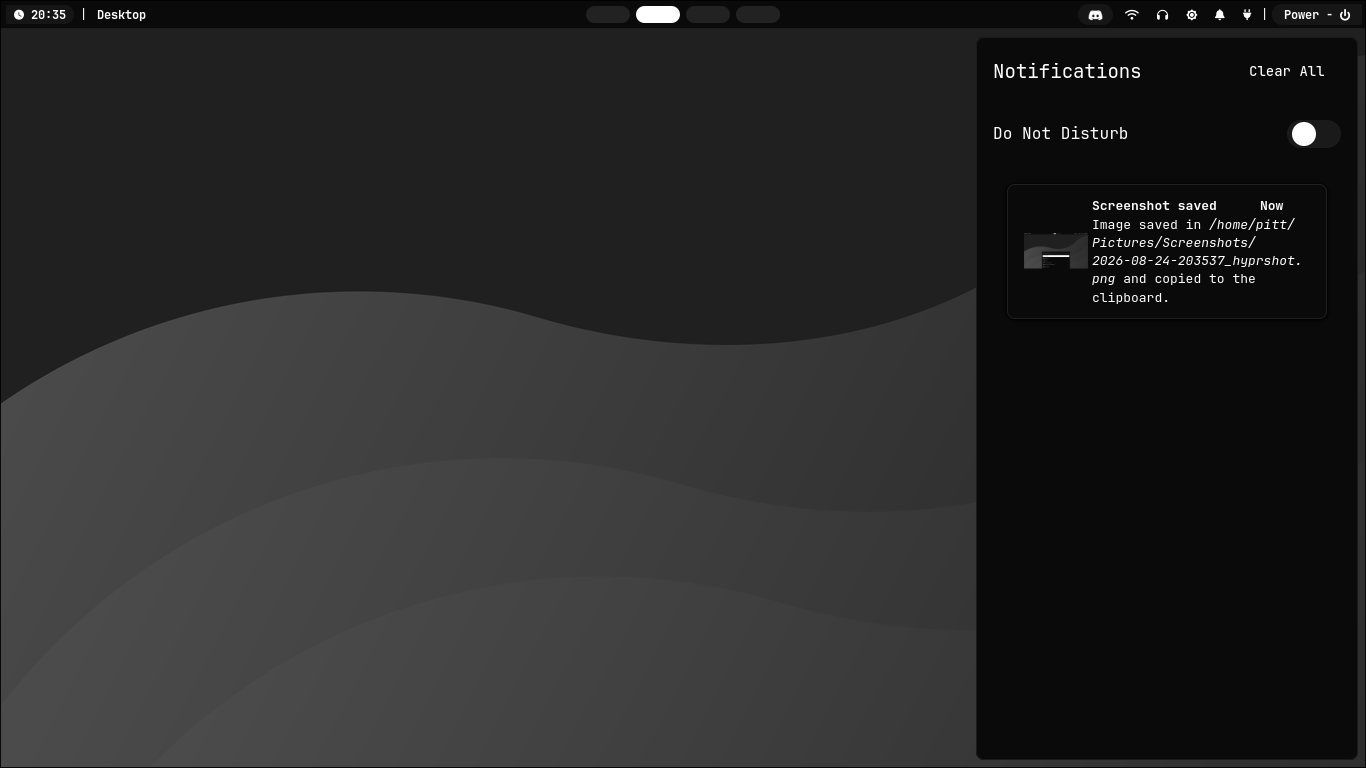
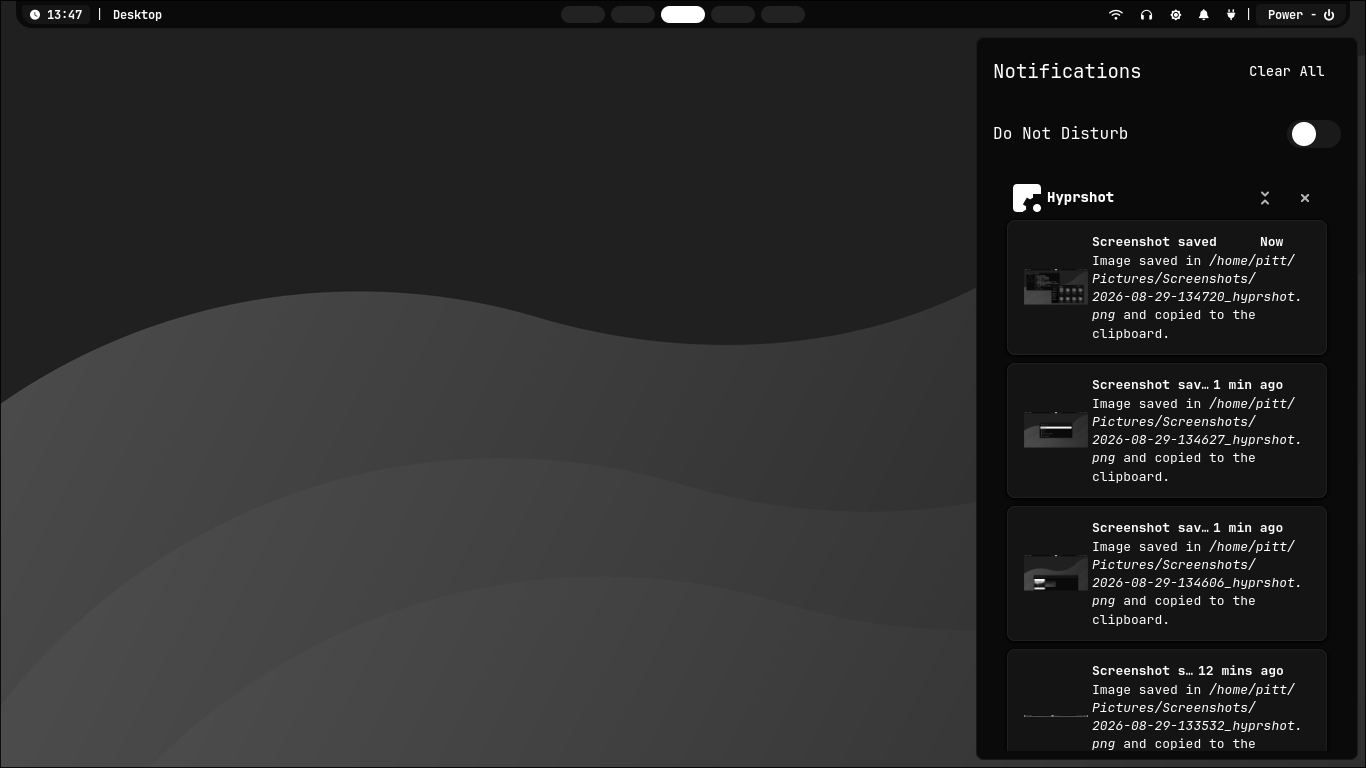
mudando o layout da waybar

diff --git a/config/waybar/style.css b/config/waybar/style.css
@@ -8,7 +8,7 @@
 window#waybar {
     background: rgba(10, 10, 10, 1);
     border-bottom: 1px solid rgba(255, 255, 255, 0.08);
-    border-radius: 0px;
+    border-radius: 0px 0px 16px 16px;
     color: #ffffff;
 }
 
@@ -80,7 +80,7 @@ window#waybar {
 #clock {
     background: rgba(255, 255, 255, 0.05);
     color: #ffffff;
-    border-radius: 2 10 10 2px;
+    border-radius: 2px 4px 4px 12px;
     padding: 0 8px;
     margin: 3px 4px;
     font-weight: bold;
@@ -95,7 +95,7 @@ window#waybar {
 #custom-power {
     background: rgba(255, 255, 255, 0.05);
     color: #ffffff;
-    border-radius: 10 2 2 10px;
+    border-radius: 4px 2px 12px 4px;
     padding: 0 12px;
     margin: 2px 2px;
     font-weight: bold;
